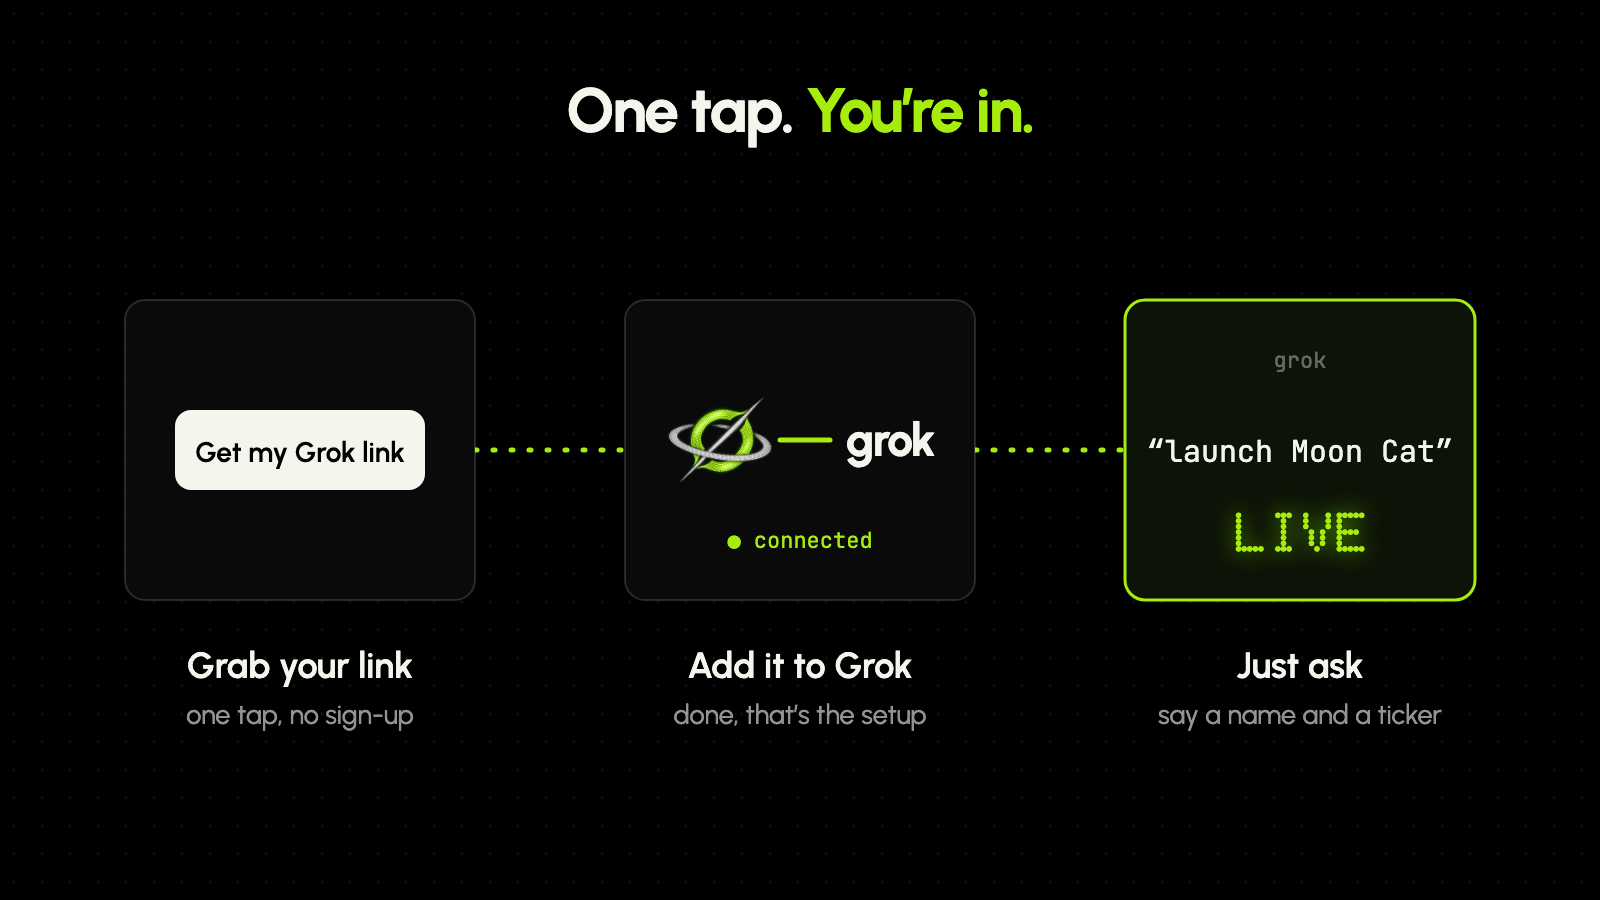
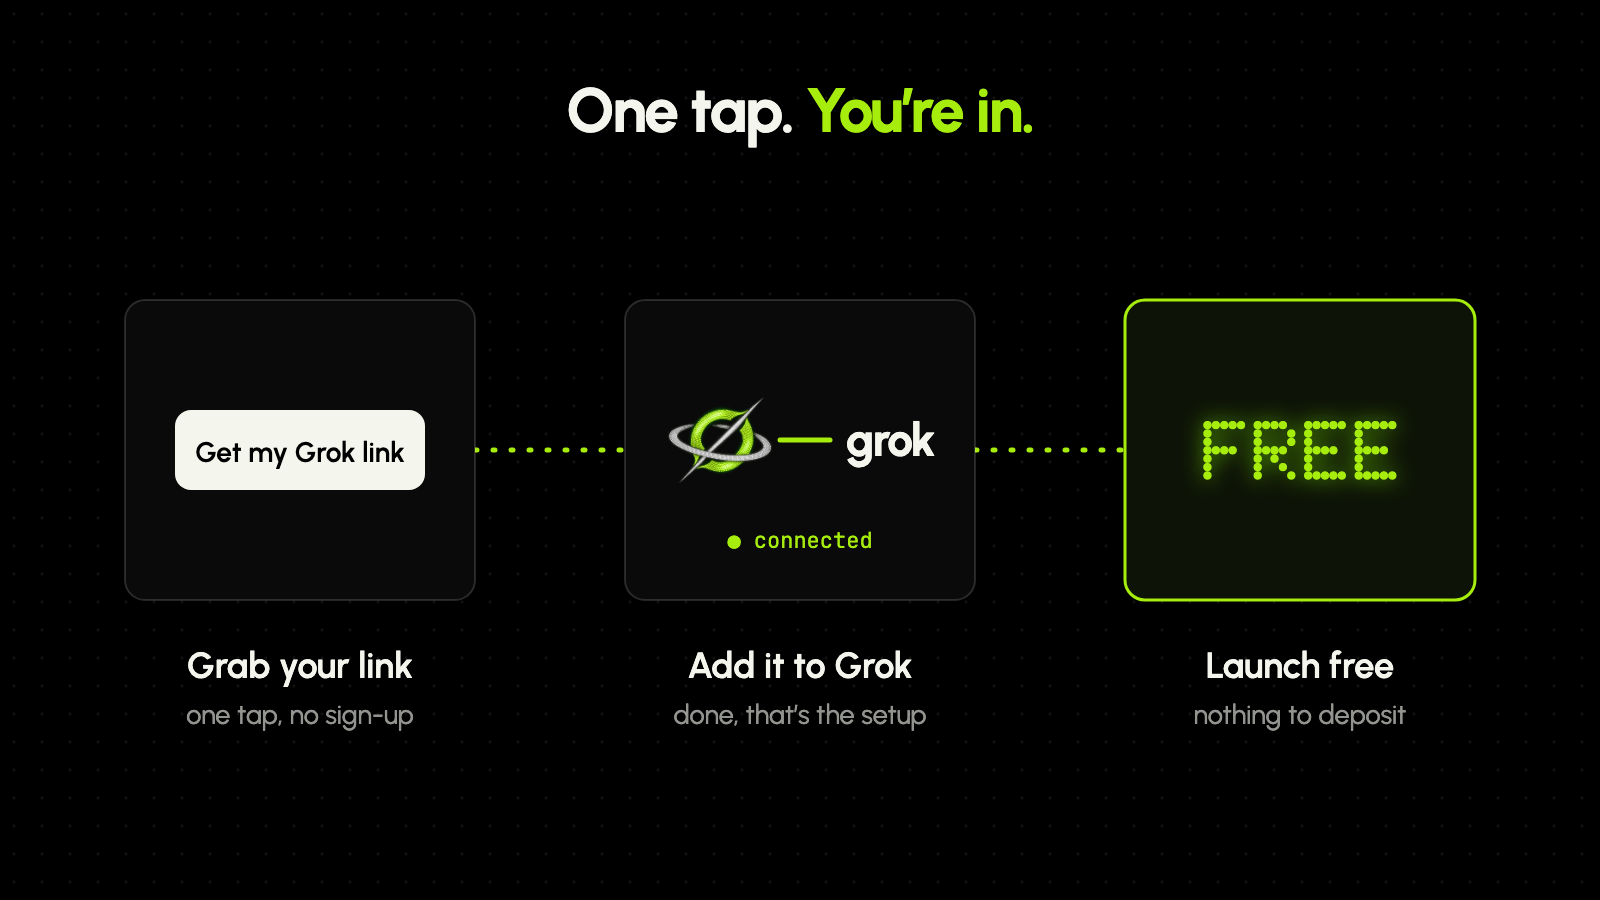
fix: Grokpad article keeps free to one setup step
The owner likes free as one step in the setup, not as the headline everywhere.

Changed region(s): [[0.7188, 0.4356, 0.9062, 0.6222], [0.7188, 0.7156, 0.9062, 0.8089]]

diff --git a/kits/grokpad/art/02-setup.html b/kits/grokpad/art/02-setup.html
@@ -22,4 +22,4 @@ svg{display:block}
 </style></head><body><svg width="1600" height="900" viewBox="0 0 1600 900"><defs>
 <radialGradient id="glow" cx="0.5" cy="0.5" r="0.5"><stop offset="0" stop-color="#5aab04" stop-opacity="0.22"/><stop offset="1" stop-color="#a6ec0d" stop-opacity="0"/></radialGradient>
 <pattern id="dots" width="28" height="28" patternUnits="userSpaceOnUse"><circle cx="14" cy="14" r="1.4" fill="#ffffff" fill-opacity="0.075"/></pattern>
-</defs><rect width="1600" height="900" fill="url(#dots)"/><text class="disp" x="800" y="132" font-size="62" text-anchor="middle">One tap. <tspan class="lime">You’re in.</tspan></text><path class="dash" d="M475 450H625"/><path class="dash" d="M975 450H1125"/><rect x="125" y="300" width="350" height="300" rx="20" class="panel"/><rect x="175" y="410" width="250" height="80" rx="16" fill="#f4f6ee"/><text class="txt" x="300" y="462" font-size="28" font-weight="600" text-anchor="middle" style="fill:#000000">Get my Grok link</text><rect x="625" y="300" width="350" height="300" rx="20" class="panel"/><image href="logo.png" x="665.0" y="385.0" width="110" height="110"/><path class="wire" d="M780 440H830"/><text class="disp" x="890" y="456" font-size="46" text-anchor="middle">grok</text><text class="mono lime" x="800" y="548" font-size="22" text-anchor="middle">● connected</text><rect x="1125" y="300" width="350" height="300" rx="20" class="panel-lit"/><text class="mono" x="1300" y="368" font-size="22" text-anchor="middle" style="fill:rgb(244 246 238 / 0.38)">grok</text><text class="mono" x="1300" y="462" font-size="30" text-anchor="middle">“launch Moon Cat”</text><text class="led lime glow" x="1303" y="552" font-size="56" text-anchor="middle">LIVE</text><text class="txt" x="300" y="678" font-size="36" font-weight="600" text-anchor="middle">Grab your link</text><text class="muted" x="300" y="724" font-size="27" text-anchor="middle">one tap, no sign-up</text><text class="txt" x="800" y="678" font-size="36" font-weight="600" text-anchor="middle">Add it to Grok</text><text class="muted" x="800" y="724" font-size="27" text-anchor="middle">done, that’s the setup</text><text class="txt" x="1300" y="678" font-size="36" font-weight="600" text-anchor="middle">Just ask</text><text class="muted" x="1300" y="724" font-size="27" text-anchor="middle">say a name and a ticker</text></svg></body></html>
+</defs><rect width="1600" height="900" fill="url(#dots)"/><text class="disp" x="800" y="132" font-size="62" text-anchor="middle">One tap. <tspan class="lime">You’re in.</tspan></text><path class="dash" d="M475 450H625"/><path class="dash" d="M975 450H1125"/><rect x="125" y="300" width="350" height="300" rx="20" class="panel"/><rect x="175" y="410" width="250" height="80" rx="16" fill="#f4f6ee"/><text class="txt" x="300" y="462" font-size="28" font-weight="600" text-anchor="middle" style="fill:#000000">Get my Grok link</text><rect x="625" y="300" width="350" height="300" rx="20" class="panel"/><image href="logo.png" x="665.0" y="385.0" width="110" height="110"/><path class="wire" d="M780 440H830"/><text class="disp" x="890" y="456" font-size="46" text-anchor="middle">grok</text><text class="mono lime" x="800" y="548" font-size="22" text-anchor="middle">● connected</text><rect x="1125" y="300" width="350" height="300" rx="20" class="panel-lit"/><text class="led lime glow" x="1304" y="480" font-size="84" text-anchor="middle">FREE</text><text class="txt" x="300" y="678" font-size="36" font-weight="600" text-anchor="middle">Grab your link</text><text class="muted" x="300" y="724" font-size="27" text-anchor="middle">one tap, no sign-up</text><text class="txt" x="800" y="678" font-size="36" font-weight="600" text-anchor="middle">Add it to Grok</text><text class="muted" x="800" y="724" font-size="27" text-anchor="middle">done, that’s the setup</text><text class="txt" x="1300" y="678" font-size="36" font-weight="600" text-anchor="middle">Launch free</text><text class="muted" x="1300" y="724" font-size="27" text-anchor="middle">nothing to deposit</text></svg></body></html>

diff --git a/kits/grokpad/art/gen.py b/kits/grokpad/art/gen.py
@@ -96,10 +96,8 @@ b.append(f'<text class="disp" x="{xs[1] + 90}" y="{cy + 6}" font-size="46" text-
 b.append(f'<text class="mono lime" x="{xs[1]}" y="{cy + 98}" font-size="22" text-anchor="middle">● connected</text>')
 # 3: free
 b.append(panel(xs[2] - 175, cy - 150, 350, 300, lit=True))
-b.append(f'<text class="mono" x="{xs[2]}" y="{cy - 82}" font-size="22" text-anchor="middle" style="fill:rgb(244 246 238 / 0.38)">grok</text>')
-b.append(f'<text class="mono" x="{xs[2]}" y="{cy + 12}" font-size="30" text-anchor="middle">“launch Moon Cat”</text>')
-b.append(f'<text class="led lime glow" x="{xs[2] + 3}" y="{cy + 102}" font-size="56" text-anchor="middle">LIVE</text>')
-steps = [('Grab your link', 'one tap, no sign-up'), ('Add it to Grok', 'done, that’s the setup'), ('Just ask', 'say a name and a ticker')]
+b.append(f'<text class="led lime glow" x="{xs[2] + 4}" y="{cy + 30}" font-size="84" text-anchor="middle">FREE</text>')
+steps = [('Grab your link', 'one tap, no sign-up'), ('Add it to Grok', 'done, that’s the setup'), ('Launch free', 'nothing to deposit')]
 for x, (a, c) in zip(xs, steps):
     b.append(f'<text class="txt" x="{x}" y="{cy + 228}" font-size="36" font-weight="600" text-anchor="middle">{a}</text>')
     b.append(f'<text class="muted" x="{x}" y="{cy + 274}" font-size="27" text-anchor="middle">{c}</text>')
